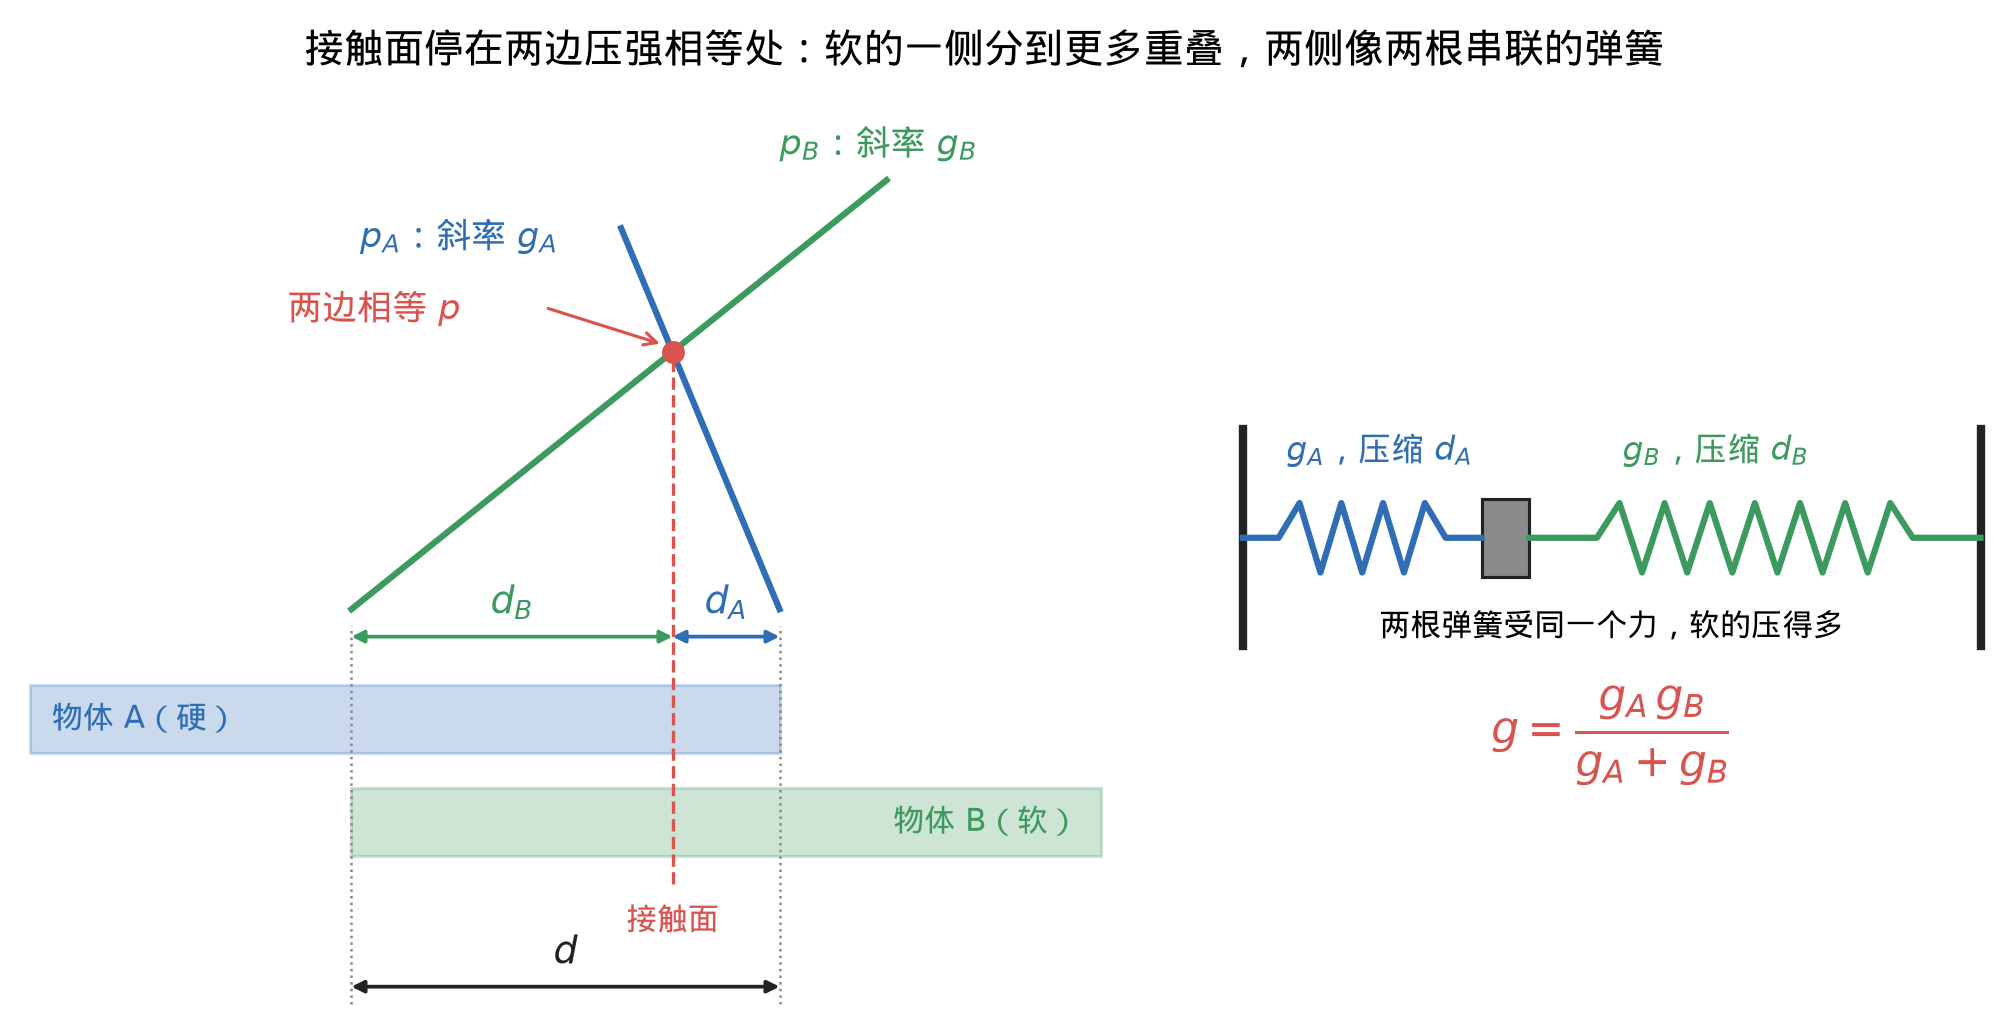
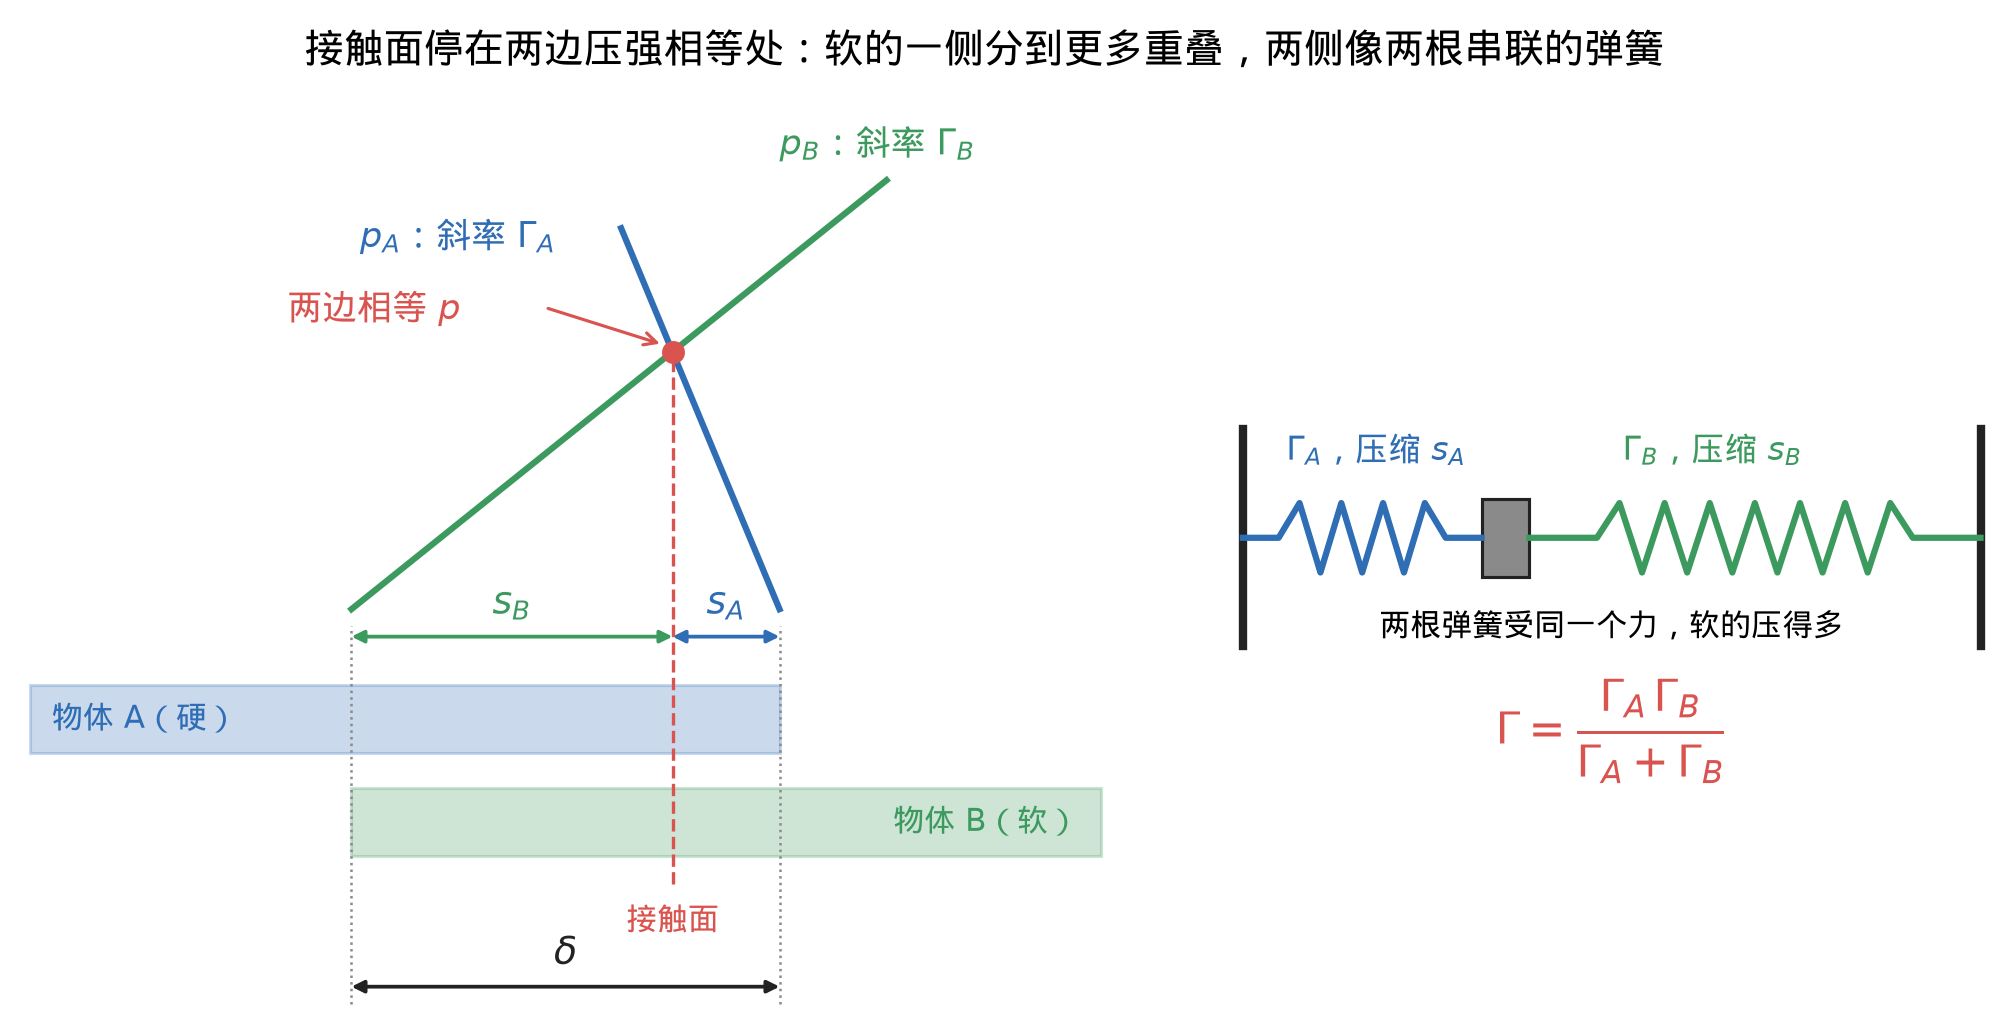
week2: 9 concept figures redrawn with the page's renamed letters; captions follow

diff --git a/week2.html b/week2.html
@@ -429,7 +429,7 @@ html.annot-on #annot-capture { display: block; }
 
 <p>结果：\(\Gamma\) 是合成梯度。任一侧越软，即梯度越小 → \(\Gamma\) 越小，而且比两侧中较软的那个还小，因为这就是两根弹簧串联，总刚度由软的一根主导；软的一侧分到的重叠深度也更多。</p>
 
-<figure style="margin:12px 0"><img src="assets/images/core_1.2_e.png" width="2015" height="1034" style="width:818px;max-width:100%;height:auto" alt="左边是沿法向切的一条线：A 在左、表面在右端，B 在右、表面在左端，两者重叠了 d。蓝线是 A 侧压强，从 A 的表面往 A 里走越来越大，斜率是 \(\Gamma_A\)；绿线是 B 侧压强，往 B 里走越来越大，斜率 \(\Gamma_B\) 更小，表示 B 更软。两条线的交点就是式 (7) 的接触面，这里两边压强相等。交点把 d 分成两段，软的 B 分到的 \(s_B\) 明显比硬的 A 分到的 \(s_A\) 长，因为同样的压强在软的一侧要压得更深才能达到。右边把这件事换成两根串联的弹簧：同一个力穿过两根，软的那根压缩得多，总刚度就是式 (9) 的 \(\Gamma=\Gamma_A\Gamma_B/(\Gamma_A+\Gamma_B)\)，比软的那根还小。" loading="lazy"><figcaption class="small">左边是沿法向切的一条线：A 在左、表面在右端，B 在右、表面在左端，两者重叠了 d。蓝线是 A 侧压强，从 A 的表面往 A 里走越来越大，斜率是 \(\Gamma_A\)；绿线是 B 侧压强，往 B 里走越来越大，斜率 \(\Gamma_B\) 更小，表示 B 更软。两条线的交点就是式 (7) 的接触面，这里两边压强相等。交点把 d 分成两段，软的 B 分到的 \(s_B\) 明显比硬的 A 分到的 \(s_A\) 长，因为同样的压强在软的一侧要压得更深才能达到。右边把这件事换成两根串联的弹簧：同一个力穿过两根，软的那根压缩得多，总刚度就是式 (9) 的 \(\Gamma=\Gamma_A\Gamma_B/(\Gamma_A+\Gamma_B)\)，比软的那根还小。</figcaption></figure>
+<figure style="margin:12px 0"><img src="assets/images/core_1.2_e.png" width="2015" height="1034" style="width:818px;max-width:100%;height:auto" alt="左边是沿法向切的一条线：A 在左、表面在右端，B 在右、表面在左端，两者重叠了 \(\delta\)。蓝线是 A 侧压强，从 A 的表面往 A 里走越来越大，斜率是 \(\Gamma_A\)；绿线是 B 侧压强，往 B 里走越来越大，斜率 \(\Gamma_B\) 更小，表示 B 更软。两条线的交点就是式 (7) 的接触面，这里两边压强相等。交点把 d 分成两段，软的 B 分到的 \(s_B\) 明显比硬的 A 分到的 \(s_A\) 长，因为同样的压强在软的一侧要压得更深才能达到。右边把这件事换成两根串联的弹簧：同一个力穿过两根，软的那根压缩得多，总刚度就是式 (9) 的 \(\Gamma=\Gamma_A\Gamma_B/(\Gamma_A+\Gamma_B)\)，比软的那根还小。" loading="lazy"><figcaption class="small">左边是沿法向切的一条线：A 在左、表面在右端，B 在右、表面在左端，两者重叠了 \(\delta\)。蓝线是 A 侧压强，从 A 的表面往 A 里走越来越大，斜率是 \(\Gamma_A\)；绿线是 B 侧压强，往 B 里走越来越大，斜率 \(\Gamma_B\) 更小，表示 B 更软。两条线的交点就是式 (7) 的接触面，这里两边压强相等。交点把 d 分成两段，软的 B 分到的 \(s_B\) 明显比硬的 A 分到的 \(s_A\) 长，因为同样的压强在软的一侧要压得更深才能达到。右边把这件事换成两根串联的弹簧：同一个力穿过两根，软的那根压缩得多，总刚度就是式 (9) 的 \(\Gamma=\Gamma_A\Gamma_B/(\Gamma_A+\Gamma_B)\)，比软的那根还小。</figcaption></figure>
 <details><summary>推导</summary><p>由式 (5) \(p_A=\Gamma_As_A\)、式 (6) \(p_B=\Gamma_Bs_B\) 与式 (7) \(p_A=p_B=p\) 解出两段深度：</p>
 <p>\[s_A=\frac{p}{\Gamma_A},\qquad s_B=\frac{p}{\Gamma_B}\]</p>
 <p>代入式 (8) \(s_A+s_B=\delta\)：</p>
@@ -469,7 +469,7 @@ html.annot-on #annot-capture { display: block; }
 
 <p>结果：\(k\) 是这根弹簧的刚度，\((\cdot)_+=\max(\cdot,0)\) 表示负数取 0。多边形越大、合成梯度越大 → 弹簧越硬，因为同样的重叠下面积大、压强升得快，力都更大；每块多边形各自一根弹簧，刚度只看自己的面积和梯度。</p>
 
-<figure style="margin:12px 0"><img src="assets/images/core_1.2_g.png" width="1309" height="938" style="width:586px;max-width:100%;height:auto" alt="横轴是有符号距离 \(\phi\)，往左是穿透越来越深，往右是两物体分开；纵轴是这块多边形给的法向力。穿透时力随穿透深度直线增长，斜率是 \(-k=-gA_0\)；一旦分开，力立刻变成 0，因为式 (13) 规定接触只推不拉，这就是 \((\cdot)_+\) 取正部的意思。两条线是同一个合成梯度、不同面积的多边形：面积大的那根更陡，也就是更硬的弹簧。整张接触面在 hydro 里就是这样一堆各自独立的弹簧，每根的刚度只看自己那块的面积和梯度，这正是本节结论里的「假设二」。" loading="lazy"><figcaption class="small">横轴是有符号距离 \(\phi\)，往左是穿透越来越深，往右是两物体分开；纵轴是这块多边形给的法向力。穿透时力随穿透深度直线增长，斜率是 \(-k=-gA_0\)；一旦分开，力立刻变成 0，因为式 (13) 规定接触只推不拉，这就是 \((\cdot)_+\) 取正部的意思。两条线是同一个合成梯度、不同面积的多边形：面积大的那根更陡，也就是更硬的弹簧。整张接触面在 hydro 里就是这样一堆各自独立的弹簧，每根的刚度只看自己那块的面积和梯度，这正是本节结论里的「假设二」。</figcaption></figure>
+<figure style="margin:12px 0"><img src="assets/images/core_1.2_g.png" width="1309" height="938" style="width:586px;max-width:100%;height:auto" alt="横轴是有符号距离 \(\phi\)，往左是穿透越来越深，往右是两物体分开；纵轴是这块多边形给的法向力。穿透时力随穿透深度直线增长，斜率是 \(-k=-\Gamma A_0\)；一旦分开，力立刻变成 0，因为式 (13) 规定接触只推不拉，这就是 \((\cdot)_+\) 取正部的意思。两条线是同一个合成梯度、不同面积的多边形：面积大的那根更陡，也就是更硬的弹簧。整张接触面在 hydro 里就是这样一堆各自独立的弹簧，每根的刚度只看自己那块的面积和梯度，这正是本节结论里的「假设二」。" loading="lazy"><figcaption class="small">横轴是有符号距离 \(\phi\)，往左是穿透越来越深，往右是两物体分开；纵轴是这块多边形给的法向力。穿透时力随穿透深度直线增长，斜率是 \(-k=-\Gamma A_0\)；一旦分开，力立刻变成 0，因为式 (13) 规定接触只推不拉，这就是 \((\cdot)_+\) 取正部的意思。两条线是同一个合成梯度、不同面积的多边形：面积大的那根更陡，也就是更硬的弹簧。整张接触面在 hydro 里就是这样一堆各自独立的弹簧，每根的刚度只看自己那块的面积和梯度，这正是本节结论里的「假设二」。</figcaption></figure>
 <details><summary>推导</summary><p>式 (9) \(p=-\Gamma\phi\) 用在形心，与式 (12) \(A=A_0\) 一起代入式 (4) \(f_n=A\,p_c\)：</p>
 <p>\[f_n=-\Gamma\,A_0\,\phi\]</p>
 <p>记 \(k=\Gamma\,A_0\)，按式 (13) 力不能为负，取正部：</p>
@@ -1077,7 +1077,7 @@ html.annot-on #annot-capture { display: block; }
 
 
 
-<figure style="margin:12px 0"><img src="assets/images/core_2.4_p.png" width="1521" height="590" style="width:674px;max-width:100%;height:auto" alt="每一行是一次调制：步长 \(n_s\) 以 \([n_s,n_s^2]\) 两个数进入一个两层的小网络，小网络为特征的每一维各给出一个缩放 \(\gamma_i\)（橙）和一个偏移 \(\beta_i\)（绿）；中间蓝色是网络某一层里一个物体的特征 h，768 维这里只画 8 格，颜色深浅只是示意大小。式 (10) 把每一维先乘 \(\gamma_i\)、再加 \(\beta_i\)，得到右边调制后的特征。上下两行的 h 完全一样，只是步长分别取训练里用的 1 和 10，于是 \(\gamma\)、\(\beta\) 不同，调制结果也不同。同一套网络权重就这样按步长改变行为；而且调制系数只由 \(n_s\) 决定、对所有物体相同，不会打乱物体之间的对称性。" loading="lazy"><figcaption class="small">每一行是一次调制：步长 \(n_s\) 以 \([n_s,n_s^2]\) 两个数进入一个两层的小网络，小网络为特征的每一维各给出一个缩放 \(\gamma_i\)（橙）和一个偏移 \(\beta_i\)（绿）；中间蓝色是网络某一层里一个物体的特征 h，768 维这里只画 8 格，颜色深浅只是示意大小。式 (10) 把每一维先乘 \(\gamma_i\)、再加 \(\beta_i\)，得到右边调制后的特征。上下两行的 h 完全一样，只是步长分别取训练里用的 1 和 10，于是 \(\gamma\)、\(\beta\) 不同，调制结果也不同。同一套网络权重就这样按步长改变行为；而且调制系数只由 \(n_s\) 决定、对所有物体相同，不会打乱物体之间的对称性。</figcaption></figure>
+<figure style="margin:12px 0"><img src="assets/images/core_2.4_p.png" width="1520" height="590" style="width:674px;max-width:100%;height:auto" alt="每一行是一次调制：步长 \(n_s\) 以 \([n_s,n_s^2]\) 两个数进入一个两层的小网络，小网络为特征的每一维各给出一个缩放 \(\gamma_i\)（橙）和一个偏移 \(\beta_i\)（绿）；中间蓝色是网络某一层里一个物体的特征 h，768 维这里只画 8 格，颜色深浅只是示意大小。式 (10) 把每一维先乘 \(\gamma_i\)、再加 \(\beta_i\)，得到右边调制后的特征。上下两行的 h 完全一样，只是步长分别取训练里用的 1 和 10，于是 \(\gamma\)、\(\beta\) 不同，调制结果也不同。同一套网络权重就这样按步长改变行为；而且调制系数只由 \(n_s\) 决定、对所有物体相同，不会打乱物体之间的对称性。" loading="lazy"><figcaption class="small">每一行是一次调制：步长 \(n_s\) 以 \([n_s,n_s^2]\) 两个数进入一个两层的小网络，小网络为特征的每一维各给出一个缩放 \(\gamma_i\)（橙）和一个偏移 \(\beta_i\)（绿）；中间蓝色是网络某一层里一个物体的特征 h，768 维这里只画 8 格，颜色深浅只是示意大小。式 (10) 把每一维先乘 \(\gamma_i\)、再加 \(\beta_i\)，得到右边调制后的特征。上下两行的 h 完全一样，只是步长分别取训练里用的 1 和 10，于是 \(\gamma\)、\(\beta\) 不同，调制结果也不同。同一套网络权重就这样按步长改变行为；而且调制系数只由 \(n_s\) 决定、对所有物体相同，不会打乱物体之间的对称性。</figcaption></figure>
 
 
 
@@ -1340,7 +1340,7 @@ html.annot-on #annot-capture { display: block; }
 
 
 
-<figure style="margin:12px 0"><img src="assets/images/core_3.3_t.png" width="1302" height="884" style="width:619px;max-width:100%;height:auto" alt="从上往下看基体表面的方格网，格距是 \(\ell\)。中间红色那一格受单位均匀压强，其余每一格按它中心沉下去多少着色，颜色越深沉得越多；这些颜色是按式 (3) 把式 (1) 的点力解在受压格上积分实算出来的。可以看到受压格周围一圈沉得最多，越往外越浅，大约按 1/距离 衰减，远处的格子也并不是一点不动。右上那一格离受压格的距离是 \(s\)，它沉下去的量就是柔度系数 \(C_{ij}\)。把每一格都轮流当受压格算一遍，就得到整个柔度矩阵 \(C\)，再由式 (2) 的叠加得到 \(u=Cp\)。" loading="lazy"><figcaption class="small">从上往下看基体表面的方格网，格距是 \(\ell\)。中间红色那一格受单位均匀压强，其余每一格按它中心沉下去多少着色，颜色越深沉得越多；这些颜色是按式 (3) 把式 (1) 的点力解在受压格上积分实算出来的。可以看到受压格周围一圈沉得最多，越往外越浅，大约按 1/距离 衰减，远处的格子也并不是一点不动。右上那一格离受压格的距离是 \(s\)，它沉下去的量就是柔度系数 \(C_{ij}\)。把每一格都轮流当受压格算一遍，就得到整个柔度矩阵 \(C\)，再由式 (2) 的叠加得到 \(u=Cp\)。</figcaption></figure>
+<figure style="margin:12px 0"><img src="assets/images/core_3.3_t.png" width="1302" height="885" style="width:618px;max-width:100%;height:auto" alt="从上往下看基体表面的方格网，格距是 \(\ell\)。中间红色那一格受单位均匀压强，其余每一格按它中心沉下去多少着色，颜色越深沉得越多；这些颜色是按式 (3) 把式 (1) 的点力解在受压格上积分实算出来的。可以看到受压格周围一圈沉得最多，越往外越浅，大约按 1/距离 衰减，远处的格子也并不是一点不动。右上那一格离受压格的距离是 \(s\)，它沉下去的量就是柔度系数 \(C_{ij}\)。把每一格都轮流当受压格算一遍，就得到整个柔度矩阵 \(C\)，再由式 (2) 的叠加得到 \(u=Cp\)。" loading="lazy"><figcaption class="small">从上往下看基体表面的方格网，格距是 \(\ell\)。中间红色那一格受单位均匀压强，其余每一格按它中心沉下去多少着色，颜色越深沉得越多；这些颜色是按式 (3) 把式 (1) 的点力解在受压格上积分实算出来的。可以看到受压格周围一圈沉得最多，越往外越浅，大约按 1/距离 衰减，远处的格子也并不是一点不动。右上那一格离受压格的距离是 \(s\)，它沉下去的量就是柔度系数 \(C_{ij}\)。把每一格都轮流当受压格算一遍，就得到整个柔度矩阵 \(C\)，再由式 (2) 的叠加得到 \(u=Cp\)。</figcaption></figure>
 
 
 
@@ -1827,7 +1827,7 @@ html.annot-on #annot-capture { display: block; }
 
 
 
-<figure style="margin:12px 0"><img src="assets/images/rich01_richardson.png" width="1281" height="999" style="width:539px;max-width:100%;height:auto" alt="横轴是网格尺寸 h，越往左越细；纵轴是用这档网格算出的值 X。三个黑点是粗、中、细三档：h、h/2、h/4 时的读数 X_c、X_m、X_f，相邻两档尺寸差 r = 2 倍。网格越细，读数越靠近真值，误差按 C·hᵖ 缩小，所以三点落在蓝色曲线 X(h) = X* + C hᵖ 上。把曲线沿虚线延长到 h = 0，终点红星就是网格无限细时的值 X*。不用真把曲线画出来：两档读数相减消去 C，就知道 X_f 还差多少，即从 X_f 再往下走 (X_f − X_m)/(r^p − 1)（红箭头）就到 X*。三档读数两两的差之比又给出收敛阶 p，即式 (9)。" loading="lazy"><figcaption class="small">横轴是网格尺寸 h，越往左越细；纵轴是用这档网格算出的值 X。三个黑点是粗、中、细三档：h、h/2、h/4 时的读数 X_c、X_m、X_f，相邻两档尺寸差 r = 2 倍。网格越细，读数越靠近真值，误差按 C·hᵖ 缩小，所以三点落在蓝色曲线 X(h) = X* + C hᵖ 上。把曲线沿虚线延长到 h = 0，终点红星就是网格无限细时的值 X*。不用真把曲线画出来：两档读数相减消去 C，就知道 X_f 还差多少，即从 X_f 再往下走 (X_f − X_m)/(r^p − 1)（红箭头）就到 X*。三档读数两两的差之比又给出收敛阶 p，即式 (9)。</figcaption></figure>
+<figure style="margin:12px 0"><img src="assets/images/rich01_richardson.png" width="1284" height="999" style="width:540px;max-width:100%;height:auto" alt="横轴是网格尺寸 h，越往左越细；纵轴是用这档网格算出的值 X。三个黑点是粗、中、细三档：h、h/2、h/4 时的读数 \(X^{(c)}\)、\(X^{(m)}\)、\(X^{(f)}\)，相邻两档尺寸差 \(\rho=2\) 倍。网格越细，读数越靠近真值，误差按 C·hᵖ 缩小，所以三点落在蓝色曲线 \(X(h)=X_\infty+C\,h^p\) 上。把曲线沿虚线延长到 h = 0，终点红星就是网格无限细时的值 \(X_\infty\)。不用真把曲线画出来：两档读数相减消去 C，就知道 \(X^{(f)}\) 还差多少，即从 \(X^{(f)}\) 再往下走 \((X^{(f)}-X^{(m)})/(\rho^p-1)\)（红箭头）就到 \(X_\infty\)。三档读数两两的差之比又给出收敛阶 p，即式 (9)。" loading="lazy"><figcaption class="small">横轴是网格尺寸 h，越往左越细；纵轴是用这档网格算出的值 X。三个黑点是粗、中、细三档：h、h/2、h/4 时的读数 \(X^{(c)}\)、\(X^{(m)}\)、\(X^{(f)}\)，相邻两档尺寸差 \(\rho=2\) 倍。网格越细，读数越靠近真值，误差按 C·hᵖ 缩小，所以三点落在蓝色曲线 \(X(h)=X_\infty+C\,h^p\) 上。把曲线沿虚线延长到 h = 0，终点红星就是网格无限细时的值 \(X_\infty\)。不用真把曲线画出来：两档读数相减消去 C，就知道 \(X^{(f)}\) 还差多少，即从 \(X^{(f)}\) 再往下走 \((X^{(f)}-X^{(m)})/(\rho^p-1)\)（红箭头）就到 \(X_\infty\)。三档读数两两的差之比又给出收敛阶 p，即式 (9)。</figcaption></figure>
 
 
 
@@ -1865,7 +1865,7 @@ html.annot-on #annot-capture { display: block; }
 <li>\(\hat d\)：两档，取 \(p=1\)（偏差与 \(\hat d\) 成正比，\(h\) 换成 \(\hat d\)），即两点连直线延长到 \(\hat d=0\)</li>
 <li>块大小：两档半宽 \(L_s&lt;L_l\)，取 \(h=1/L\)、\(p=1\)，即两点连直线延长到 \(1/L=0\)（块无限大）</li>
 </ul>
-<figure style="margin:12px 0"><img src="assets/images/rich02_linear_two_point.png" width="1272" height="999" style="width:535px;max-width:100%;height:auto" alt="误差和 h 成正比（p = 1）时，曲线就是直线。只要两档读数 X_m（h）和 X_f（h/2），连成直线、沿虚线延长到 0，红星就是外推值；代进公式就是 X* = X_f + (X_f − X_m)。\(\hat d\) 和块尺寸（用 1/L 当 h）都是这么外推的。" loading="lazy"><figcaption class="small">误差和 h 成正比（p = 1）时，曲线就是直线。只要两档读数 X_m（h）和 X_f（h/2），连成直线、沿虚线延长到 0，红星就是外推值；代进公式就是 X* = X_f + (X_f − X_m)。\(\hat d\) 和块尺寸（用 1/L 当 h）都是这么外推的。</figcaption></figure>
+<figure style="margin:12px 0"><img src="assets/images/rich02_linear_two_point.png" width="1272" height="999" style="width:535px;max-width:100%;height:auto" alt="误差和 h 成正比（p = 1）时，曲线就是直线。只要两档读数 \(X^{(m)}\)（h）和 \(X^{(f)}\)（h/2），连成直线、沿虚线延长到 0，红星就是外推值；代进公式就是 \(X_\infty=X^{(f)}+(X^{(f)}-X^{(m)})\)。\(\hat d\) 和块尺寸（用 1/L 当 h）都是这么外推的。" loading="lazy"><figcaption class="small">误差和 h 成正比（p = 1）时，曲线就是直线。只要两档读数 \(X^{(m)}\)（h）和 \(X^{(f)}\)（h/2），连成直线、沿虚线延长到 0，红星就是外推值；代进公式就是 \(X_\infty=X^{(f)}+(X^{(f)}-X^{(m)})\)。\(\hat d\) 和块尺寸（用 1/L 当 h）都是这么外推的。</figcaption></figure>
 <ul>
 <li>三项修正量相加：最终值 = 块外推值 + 网格外推值 − 中等网格大块的读数（各项都从同一个基准读数出发修正，修正量叠加）</li>
 </ul>
